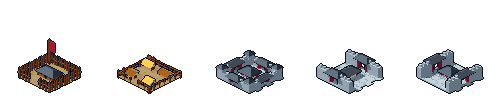
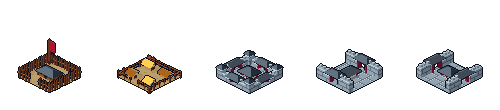
fix(map): lay castle walls, parapets and paving on one regular brick grid

diff --git a/tools/unit3d/structures.py b/tools/unit3d/structures.py
@@ -155,27 +155,32 @@ def house(kind):
 FLOOR_KEYS = {'light': ('4', '5', '3'), 'dark': ('3', '4', '2')}  # stone, lit edge, joint
 
 
-def paving(tone, rows=2):
-    """Flat paving drawn as pixels: staggered stones on the cell diamond, joints along both axes.
-    Returns a CELL-sized key grid; (a, b) are map-space coordinates in [-.5, .5]."""
+STONE_PX = 16  # paving stones: 16 px along each screen axis of the map (a quarter cell edge)
+
+
+def paving_key(x, y, tone):
+    """Key of paving pixel (x, y), counted from a small-cell centre. Joints run along both map axes on
+    exact 2:1 pixel staircases (two pixels per row, so lines never break), every other row of stones
+    shifted half a stone; the lit edge is the pixel row next to each joint. Small-cell centres are 16 px
+    apart in p and q, so every cell's paving joins its neighbours'."""
     stone, lit, joint = FLOOR_KEYS[tone]
+    p, q = x + 2*y, 2*y - x
+    q += STONE_PX//2*((p // STONE_PX) % 2)
+    pa, qa = p % STONE_PX, q % STONE_PX
+    if pa < 2 or qa < 2:
+        return joint
+    return lit if pa == 2 or qa == 2 else stone
+
+
+def paving(tone):
+    """Flat paving on the cell diamond (a CELL-sized key grid)."""
     cx, cy = PIVOT[0] + 1, PIVOT[1] + 1  # cell centre in pixels (see SPRITE_PIVOT)
     g = [['.'] * CELL[0] for _ in range(CELL[1])]
     for y in range(CELL[1]):
         for x in range(CELL[0]):
             dx, dy = x + .5 - cx, y + .5 - cy
-            a, b = (dx/16 + dy/8)/2, (dy/8 - dx/16)/2
-            if abs(a) > .5 or abs(b) > .5:
-                continue
-            ra, rb = (a + .5)*rows, (b + .5)*rows
-            rb += .5*(int(ra) % 2)  # stagger every other row of stones
-            fa, fb = ra % 1, rb % 1
-            if fa < .09 or fb < .07:
-                g[y][x] = joint
-            elif fa < .2 or fb < .15:
-                g[y][x] = lit
-            else:
-                g[y][x] = stone
+            if abs(dx)/16 + abs(dy)/8 <= 1:
+                g[y][x] = paving_key(x - cx, y - cy, tone)
     return g
 
 
@@ -215,9 +220,12 @@ def brick_joint(x, k):
     """Whether screen column x, k px below the top of a RISE-high wall, is a mortar joint. The grid is
     fixed to the ground and to screen x (mod BRICK_W from any cell centre), so every wall piece of every
     cell lines up: horizontal joints every BRICK_H, vertical ones staggered half a brick per course."""
-    if k > 0 and k % BRICK_H == 0:
+    course = (k + 1) // BRICK_H  # joints at k = 3 and 7: three even courses on a RISE-high face
+    if (k + 1) % BRICK_H == 0:
         return True
-    return (x + BRICK_W//2*((k // BRICK_H) % 2)) % BRICK_W == 0
+    return (x + BRICK_W//2*(course % 2)) % BRICK_W == 0
+
+
 PARAPET, MERLON = 3, 3  # parapet height and the extra height of each merlon (px)
 FACE = {'sw': ('4', '5', '3'), 'se': ('3', '4', '2')}  # stone, lit top course, joint
 
@@ -246,13 +254,22 @@ def castle(open_, tone='dark'):
         if 0 <= x < CELL[0] and 0 <= y < CELL[1]:
             g[y][x] = c
 
+    def top_side(x, y):
+        """Pixel lies above the lifted top's front edges (on the paving or the sky), not on a face."""
+        dx, dy = x + .5 - cx, y + .5 - (cy - RISE)
+        return dy < 8 - abs(dx)/2
+
+    front = set()  # front parapet pixels: they stand against the paving, so they get their own outline
+
     def parapet(side):
         stone, lit, joint = FACE['sw' if side in ('sw', 'ne') else 'se']
         for x, y in edge_columns(side, cx, cy, RISE):
             merlon = (x - cx) % 8 < 4
             h = PARAPET + (MERLON if merlon else 0)
-            for k in range(1, h + 1):
+            for k in range(h + 1):  # from the edge row itself, so no gap is left beside the paving
                 put(x, y - k, lit if k == h else (joint if k == PARAPET and merlon else stone))
+                if side in ('sw', 'se'):
+                    front.add((x, y - k))
             put(x, y - h - 1, '0')
 
     for side in ('nw', 'ne'):  # back parapets first: the paving and front walls overlap them
@@ -265,8 +282,11 @@ def castle(open_, tone='dark'):
         for x, edge in edge_columns(side, cx, cy, RISE):
             for k in range(RISE + 1):
                 put(x, edge + k, lit if k == 0 else joint if brick_joint(x - cx, k) else stone)
-            put(x, edge + RISE + 1, '0')
         parapet(side)
+    for x, y in front:  # outline the merlons where they rise above the paving behind them
+        for nx, ny in ((x, y - 1), (x - 1, y), (x + 1, y)):
+            if (nx, ny) not in front and 0 <= nx < CELL[0] and 0 <= ny < CELL[1] and top_side(nx, ny):
+                g[ny][nx] = '0'
     lined = R.outline(g, (0, 0, CELL[0], CELL[1]))
     for y in range(CELL[1]):
         for x in range(CELL[0]):
@@ -275,6 +295,8 @@ def castle(open_, tone='dark'):
                 side = ('n' if dy < 0 else 's') + ('e' if dx > 0 else 'w')
                 if not open_[side] and abs(dy) > 1:
                     lined[y][x] = '.'
+                if abs(dy) <= 1 and not all(open_[s] for s in (('nw', 'sw') if dx < 0 else ('ne', 'se'))):
+                    lined[y][x] = '.'  # corner pixel where wall-top cells meet
                 if dy > 0 and (x == cx - 17 and not open_['nw'] or x == cx + 16 and not open_['ne']):
                     lined[y][x] = '.'  # the face runs on into the neighbour's: no seam
     return Hd.to_img(lined)
@@ -350,7 +372,6 @@ def cliff(open_, variant=0):
                 elif k == brink + 1:
                     c = CLIFF_RAMP[3 + shade]  # shadow under the brink
                 put(x, edge + k, c)
-            put(x, edge + CLIFF_RISE + 1, '0')
     lined = R.outline(g, (0, 0, CELL[0], CELL[1]))
     for y in range(CELL[1]):
         for x in range(CELL[0]):

diff --git a/tools/unit3d/sites.py b/tools/unit3d/sites.py
@@ -15,6 +15,7 @@ from PIL import Image
 
 import base_model as m
 import props as P
+import render as R
 import structures as S
 
 ROOT = Path(__file__).resolve().parents[2]
@@ -24,7 +25,14 @@ BX, BY = S.BACK  # the back corner is (BX/2, BY/2) in cell units
 CELL, PIVOT = (100, 110), (49, 76)
 STONE, STONE_DARK, WOOD, TILE, TILE_DARK = S.STONE, S.STONE_DARK, S.WOOD, S.TILE, S.TILE_DARK
 EARTH, EARTH_DARK = '#c49a5c', '#9c7444'
-S.R.add_ramps({EARTH: 'σρρρ', EARTH_DARK: 'γτττ'})  # the map's wasteland ground (structures.CLIFF_TOP)
+FLOOR = '#a9b2b9'  # paving: repainted by draw_bricked with structures.paving_key
+WALL = '#aab3ba'  # brick walls: stone colour, but bricked by draw_bricked like the castle wall blocks
+MARK = '#ff00ff'  # stand-in colours that find the wall and floor pixels in a second render
+MARK_FLOOR = '#00ffff'
+R.add_ramps({EARTH: 'σρρρ', EARTH_DARK: 'γτττ',  # the map's wasteland ground (structures.CLIFF_TOP)
+             WALL: R.RAMPS[STONE], FLOOR: R.RAMPS[STONE], MARK: 'εδβα', MARK_FLOOR: 'ζζζζ'})
+MARK_SIDES = 'εδ'  # wall side faces in the marker render; 'β' is the lit top
+DARKER = {'5': '4', '4': '3', '3': '2', '2': '1'}
 
 
 def edge(side, s, z=0.0, inset=0.0):
@@ -180,22 +188,14 @@ def thin_wall(side, h, thick):
     along_nw = side in ('nw', 'se')
     for t0, t1 in ((-.5, -DOOR), (DOOR, .5)):
         mid, ln = (t0 + t1)/2, t1 - t0
-        m.box(edge(side, mid, h/2, thick/2), V(thick, ln, h) if along_nw else V(ln, thick, h), STONE)
+        m.box(edge(side, mid, h/2, thick/2), V(thick, ln, h) if along_nw else V(ln, thick, h), WALL)
         battlements(side, h, .1, ends=(t0, t1), inset=thick/2, merlon=.055)
     gateway(side, h, thick)
 
 
-def brick_floor(n=6):
-    """Paved courtyard at ground level: stone bricks with dark joints."""
-    m.box(V(0, 0, .004), V(1, 1, .008), STONE_DARK)
-    for i in range(n):
-        for j in range(n):
-            off = .5/n*(i % 2)
-            x = -.5 + (j + .5)/n + off
-            if x > .5:
-                continue
-            y = -.5 + (i + .5)/n
-            m.box(V(x, y, .012), V(1/n - .02, 1/n - .02, .008), STONE)
+def brick_floor():
+    """Paved courtyard at ground level; draw_bricked lays the paving pattern of the castle floor on it."""
+    m.box(V(0, 0, .004), V(1, 1, .008), FLOOR)
 
 
 def earth_floor(n=8):
@@ -214,7 +214,7 @@ def castle():
         thin_wall(side, .32, .08)
     for k in ('back', 'left', 'right', 'front'):
         c = corner(k, .07)
-        m.box(c + V(0, 0, .25), V(.14, .14, .5), STONE)
+        m.box(c + V(0, 0, .25), V(.14, .14, .5), WALL)
         roof(c + V(0, 0, .5), .14, .14, 0, .14, TILE, TILE_DARK, .03)
     office(.3, .22, .22)
 
@@ -229,6 +229,46 @@ def gate(along):
     office(.3, .22, .22) if along == 'v' else office(.22, .3, .22)
 
 
+def draw_bricked():
+    """Render the cell, then repaint FLOOR with the castle paving (structures.paving_key) and the WALL
+    boxes like the castle wall blocks: one flat stone tone per face direction (no cast shadows), a lit top
+    course and the shared brick grid (structures.brick_joint).
+    Heights count from where each face meets the ground and columns from the cell centre, so the bricks
+    continue the wall blocks of neighbouring cells."""
+    render = S.camera(lambda meshes: R.render(meshes, S.VIEW, S.SCALE, cell=CELL, pivot=PIVOT))
+    keys = render(m.meshes)
+    bias, R.SHADOW_BIAS = R.SHADOW_BIAS, float('inf')  # the marker tones tell the face direction only
+    try:
+        mark = render([(v, {WALL: MARK, FLOOR: MARK_FLOOR}.get(c, c)) for v, c in m.meshes])
+    finally:
+        R.SHADOW_BIAS = bias
+    face = {'δ': S.FACE['sw'], 'ε': S.FACE['se']}  # stone, lit, joint
+    cx, cy = PIVOT[0] + 1, PIVOT[1] + 1
+    for y in range(CELL[1]):
+        for x in range(CELL[0]):
+            if mark[y][x] == 'ζ' and keys[y][x] != '0':  # counted from the small cell below the centre
+                keys[y][x] = S.paving_key(x - cx, y - cy - 8, 'light')
+    for x in range(CELL[0]):
+        y = 0
+        while y < CELL[1]:
+            if keys[y][x] == '0' or mark[y][x] not in face and mark[y][x] != 'β':
+                y += 1
+                continue
+            if mark[y][x] == 'β':  # wall top
+                keys[y][x] = '4'
+                y += 1
+                continue
+            end = y
+            while end + 1 < CELL[1] and mark[end + 1][x] == mark[y][x] and keys[end + 1][x] != '0':
+                end += 1
+            stone, lit, joint = face[mark[y][x]]
+            for yy in range(y, end + 1):
+                k = S.RISE - (end - yy)  # the bottom row of the face is k = RISE, as on a wall block
+                keys[yy][x] = lit if yy == y else joint if S.brick_joint(x - cx, k) else stone
+            y = end + 1
+    return S.Hd.to_img(keys)
+
+
 SITES = {'camp': camp, 'village': village, 'castle': castle, 'gate_u': lambda: gate('u'), 'gate_v': lambda: gate('v')}
 
 
@@ -239,7 +279,7 @@ def main():
         m.meshes = []
         make()
         P.stretch()
-        sheet.alpha_composite(P.draw(CELL, PIVOT), (i*CELL[0], 0))
+        sheet.alpha_composite(draw_bricked(), (i*CELL[0], 0))
     sheet.save(OUT / 'sites.png')
     meta = dict(version=1, image='sites.png', cell=list(CELL), pivot=[PIVOT[0] + 1, PIVOT[1] + 1],
                 pivot_note='cell centre of the 64x32 map diamond', sprites={k: i for i, k in enumerate(SITES)})
